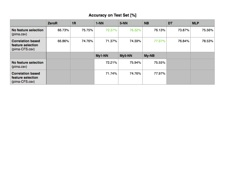
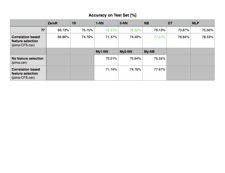
Added notes for discussion

Changed region(s): [[0.0311, 0.1445, 0.9644, 0.4913]]

diff --git a/5. results/REPORT.md b/5. results/REPORT.md
@@ -12,7 +12,7 @@ This is important for a number of medical reasons. Primarily, it is useful to be
 
 ### Data Set Used
 
-The data set used was the Pima Indians Diabetes data that is publicly available from the UCI Machine Learning Repository at http://archive.ics.uci.edu/ml/. In its raw state it contains 768 instances described with 8 numeric attributes. Where each attribute is correlates to a patients personal characteristics and test measurements and each patient is of Pima Indian Heritage.
+The data set used was the Pima Indians Diabetes data that is publicly available from the UCI Machine Learning Repository at http://archive.ics.uci.edu/ml/. In its raw state it contains 768 instances described with 8 numeric attributes. Where each attribute is correlates to a patients personal characteristics and test measurements. Each patient is of Pima Indian Heritage.
 
 **The attributes are as follows:**
 
@@ -72,15 +72,26 @@ The attributes selected as the 'best' by Weka's CFS where:
 
 |										 | ZeroR | 1R | 1-NN | 5-NN | NB | DT | MLP
 | ------------ 							| ------------- | ------------ |
-| No feature Selection |  |  |
-| Correlation based feature selection |   |  |
+| **No feature selection** | 66.73% | 75.75% | 72.37% | 76.32% | 76.13% | 73.87% | 75.56% |   
+| **CFS** | 66.86% | 74.76%  | 71.37%| 74.39% | 77.97% | 76.84% | 78.53% |
 
 |										 | My1-NN | My5-NN | My-NB |
 | ------------ 							| ------------- | ------------ |
-| No feature Selection |   |  |
-| Correlation based feature selection |  | |
+| **No feature selection** |  72.21% |75.94%  | 75.55%
+| **CFS** | 71.74% | 74.76% | 77.97% |
 
 ### Discussion
+
+* ZeroR, Naïve Bayes, DT and MLP Weka Implementations where all faster one the CFS data.
+*  For our own implementations, our Naïve Bayes was faster using CFS.
+*  In general, Wekas implementation was faster or equal to our implementation. Though, in all situations variance was less than 1%. They where all fairly close.
+*  Feature selection was beneficial only in the case of a few algorithms, for the rest, it made them slower. Though, again the difference was only marginal.
+* The attributes chosen seem to be fairly intuitive. BMI and age are fairly basic indicators.
+* Feature selection techniques provide three main benefits:
+
+	* improved model interpretability,
+	* shorter training times,
+	* enhanced generalisation by reducing overfitting.
 
 
 ## 4. Conclusions
